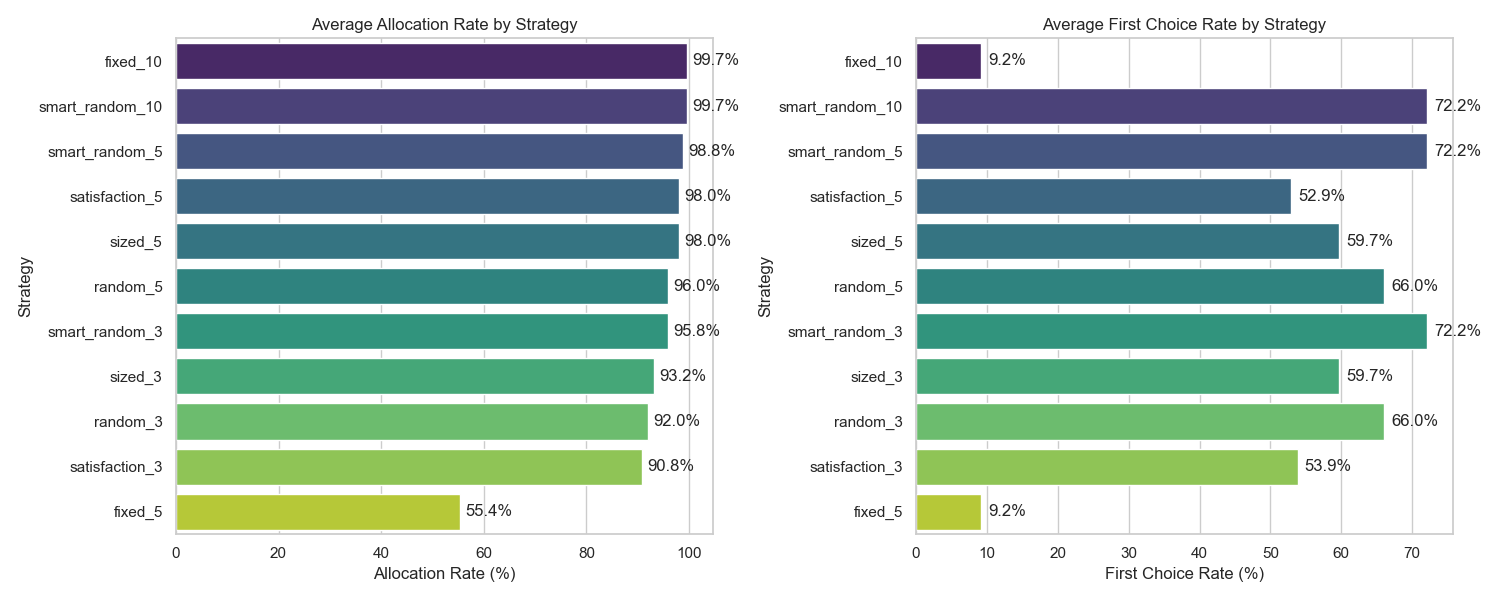
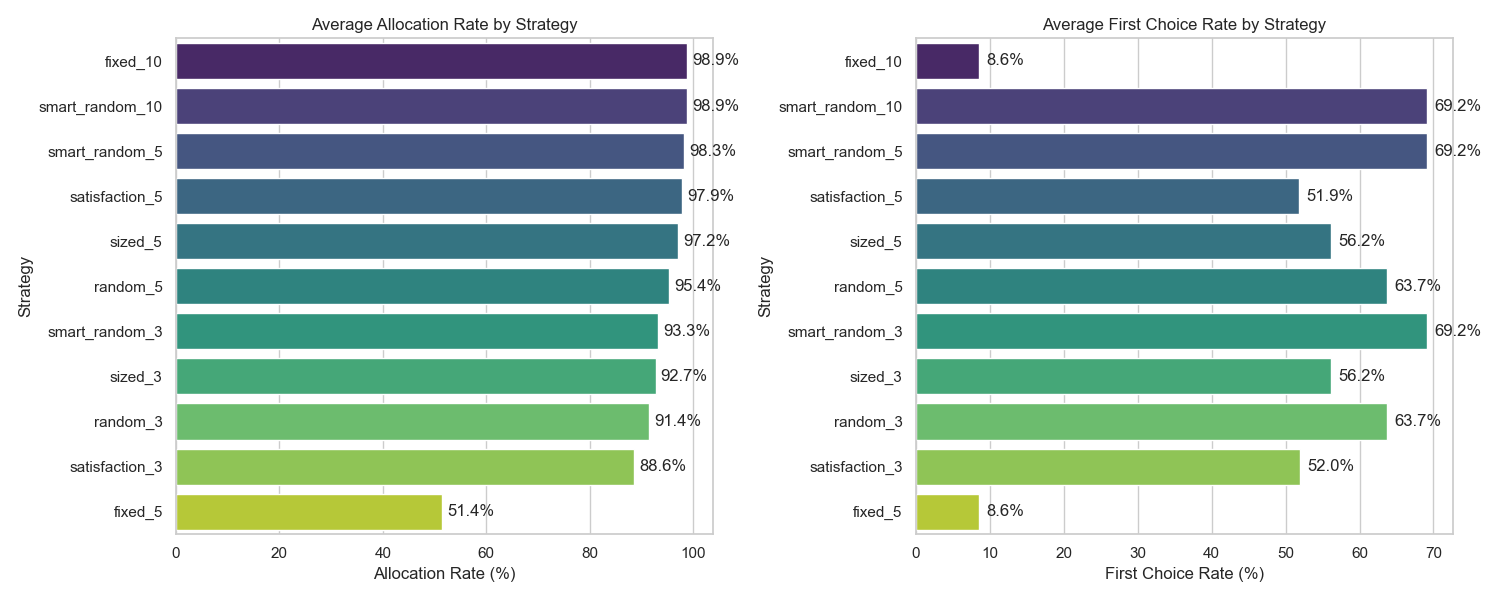
Update course count and change preference generation strategy in Main

diff --git a/room-allocation/src/main/java/com/roomallocation/Main.java b/room-allocation/src/main/java/com/roomallocation/Main.java
@@ -21,7 +21,7 @@ public class Main {
     public static void main(String[] args) {
         try {
             int numSimulations = 10;
-            int numCourses = 65;
+            int numCourses = 70;
             int minSize = 10;
             int maxSize = 200;
             int changeSize = 35;
@@ -55,7 +55,7 @@ public class Main {
             // Run simulations with all strategies
             List<AllocationStatistics> stats = collector.runSimulations();
 
-            PreferenceGenerationStrategy bestStrategy = new SatisfactionBasedStrategy(10, rooms);
+            PreferenceGenerationStrategy bestStrategy = new SmartRandomPreferenceStrategy(10, rooms);
             CourseSimulator simulator = new CourseSimulator(bestStrategy);
             List<Course> courses = simulator.generateCourses(numCourses, minSize, maxSize, changeSize);
             TypeBasedAllocation allocator = new TypeBasedAllocation(courses, rooms);
